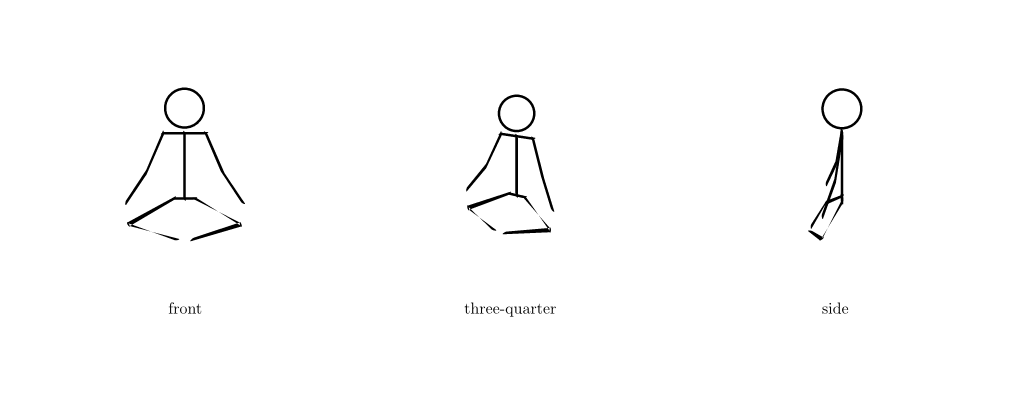
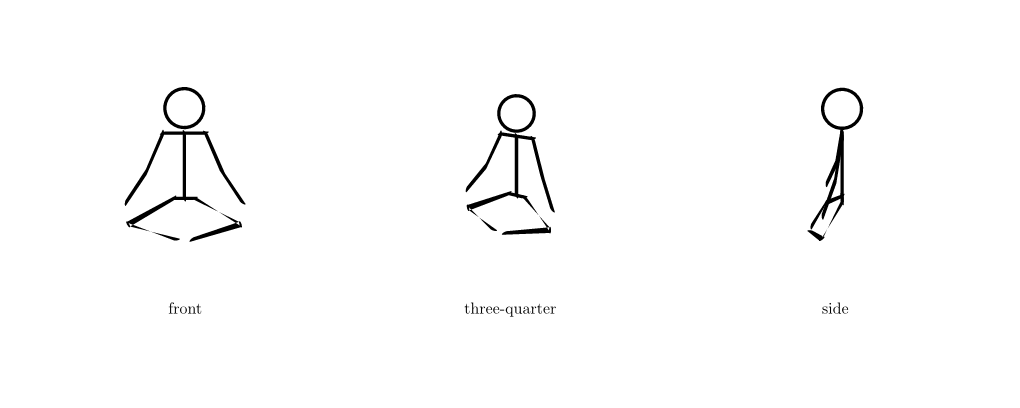
Add pose variations and dynamic poses

diff --git a/README.md b/README.md
@@ -43,11 +43,14 @@ On macOS, `{data-dir}` is `~/Library/Application Support`.
 - `running`
 - `yoga-downward-dog`
 - `yoga-child-pose`
+- `yoga-warrior-one`
 - `yoga-warrior-two`
 - `yoga-tree`
 - `squatting`
 - `push-up`
 - `pull-up`
+- `walking-on-hands`
+- `jumping-one-foot`
 - `jumping-open-legs`
 
 Compile the complete gallery with:
@@ -78,6 +81,8 @@ the projection model, viewpoint guidance, and complete API reference.
 ```typ
 #human(
   pose: "running", // built-in name or a 3D pose dictionary
+  variation: 0.0,
+  seed: 0,
   scale: 1.0,
   stroke: black,
   pen: none, // Premetadated pen; none uses the calligraphic default
@@ -85,6 +90,31 @@ the projection model, viewpoint guidance, and complete API reference.
   camera: default-camera,
 )
 ```
+
+## Pose variations
+
+Use `variation` and an integer `seed` to create related but non-identical
+figures. Seeds are deterministic, making document builds reproducible:
+
+![Five deterministic variations of the walking pose](assets/previews/variations.png)
+
+```typ
+#for seed in range(5) {
+  human(pose: "walking", variation: 0.09, seed: seed)
+}
+```
+
+For reuse or further editing, generate the pose dictionary first:
+
+```typ
+#let walker = vary-pose("walking", variation: 0.09, seed: 3)
+#human(pose: walker)
+```
+
+`variation` ranges from `0` to `0.35`; values around `0.04` to `0.12` are best
+for natural scene variation. The function perturbs normalized 3D directions,
+so anatomical segment lengths remain unchanged. The complete strip is generated
+by `examples/variations.typ`.
 
 Pose vectors use `(x, y, z)`, where `x` is image-right in a front-facing pose,
 `y` is depth, and `z` is up. Each upper and lower limb segment has an independent
@@ -96,8 +126,8 @@ camera. `front-camera`, `profile-camera`, and `three-quarter-camera` are supplie
 as convenient starting points. `project(point, camera:)` exposes the same 3D to
 2D projection used by `human`.
 
-The default pen is tangent-following calligraphy with a broad axis of `0.038`
-and fine axis of `0.011`, scaled with the figure. Pass any pen accepted by
+The default pen is tangent-following calligraphy with a broad axis of `0.050`
+and fine axis of `0.015`, scaled with the figure. Pass any pen accepted by
 `premetadated.stroke.nib-stroke` to `human(pen:)` to control its nib.
 
 `pose-from-degrees(base, values)` converts the sagittal numeric angles produced
